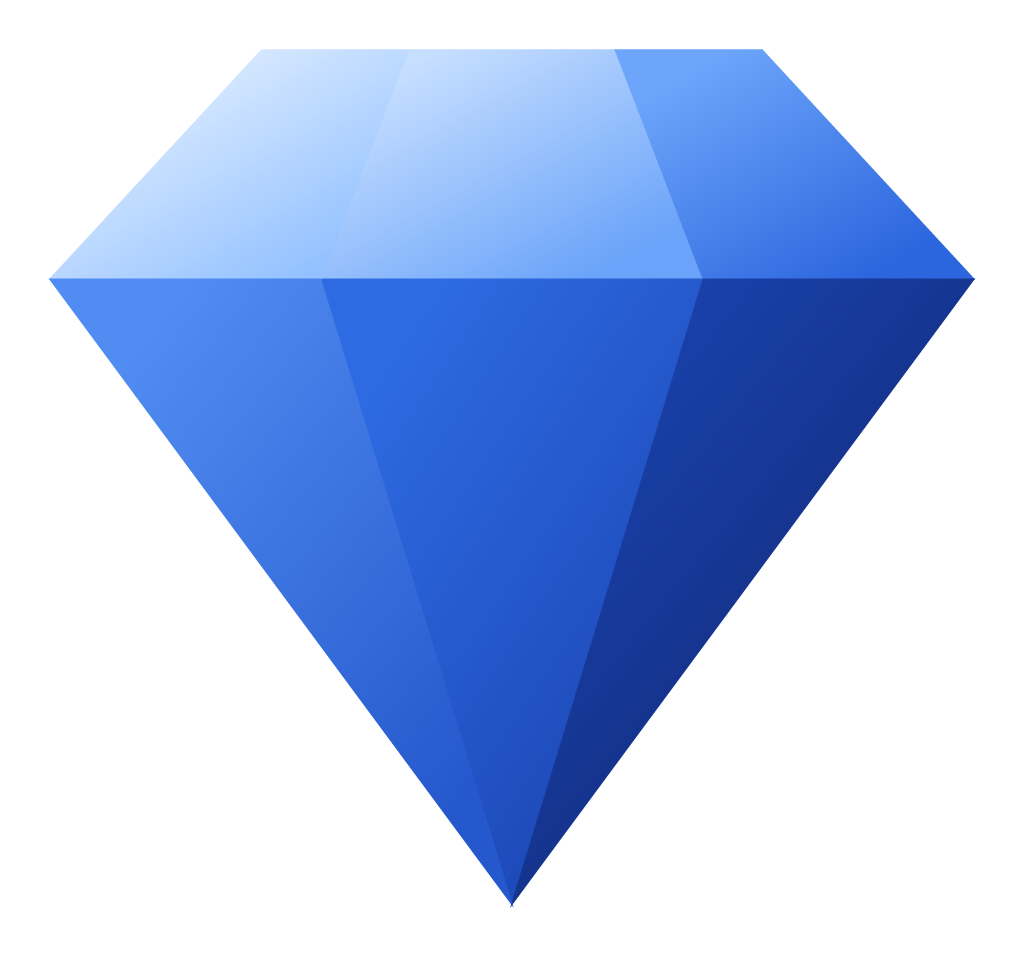
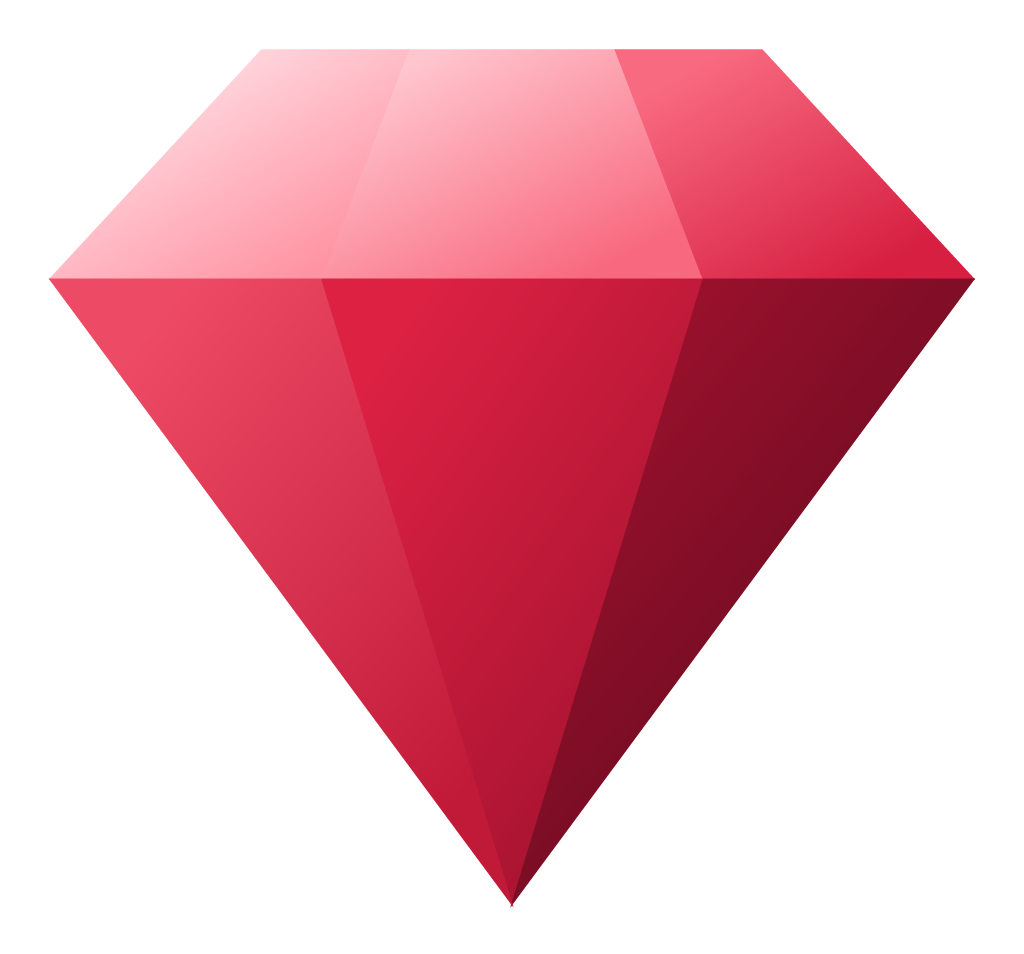
Make Ruby the default palette
Claude-Session: https://claude.ai/code/session_0146SZfCP6KJ3vtfzamx4Kz4

diff --git a/default.ts b/default.ts
@@ -7,9 +7,8 @@
 import { COLOR_PALETTES } from "./color-palettes.ts";
 import type { DiamondParams } from "./diamond.ts";
 
-const DEFAULT_PALETTE = COLOR_PALETTES.find((p) => p.name === "Sapphire");
-if (!DEFAULT_PALETTE)
-  throw new Error('default palette "Sapphire" is missing from color-palettes.ts');
+const DEFAULT_PALETTE = COLOR_PALETTES.find((p) => p.name === "Ruby");
+if (!DEFAULT_PALETTE) throw new Error('default palette "Ruby" is missing from color-palettes.ts');
 
 const padding = 40;
 
@@ -25,7 +24,7 @@ export const PADDING_PRESETS = {
 } as const;
 export type PaddingPreset = keyof typeof PADDING_PRESETS;
 
-/** Defaults: a sapphire with a soft sheen on every facet, every animation off. */
+/** Defaults: a ruby with a soft sheen on every facet, every animation off. */
 export const DEFAULTS: Required<Omit<DiamondParams, "onWarn">> = {
   size: 480,
   tableSize: 260,

diff --git a/README.md b/README.md
@@ -14,7 +14,7 @@ Playground: https://brillout.github.io/gem-skills-logo
 
 ## Color
 
-A gem is one color, so a palette is a tone ramp of that color — highlight, body, shadow — and every facet takes its tone from how it faces the light. [`color-palettes.ts`](./color-palettes.ts) has ready-made stones (Sapphire, Ruby, Emerald, Amethyst, Onyx, Gold, …); pick any of them in the playground, or pass a single color and the highlight and shadow are derived.
+A gem is one color, so a palette is a tone ramp of that color — highlight, body, shadow — and every facet takes its tone from how it faces the light. [`color-palettes.ts`](./color-palettes.ts) has ready-made stones (Ruby, Sapphire, Emerald, Amethyst, Onyx, Gold, …); pick any of them in the playground, or pass a single color and the highlight and shadow are derived.
 
 ## Animations
 
@@ -57,7 +57,7 @@ For custom size & padding, go to the [playground](https://brillout.github.io/gem
 ```bash
 pnpm install
 pnpm run node-ts cli.ts logo.svg --spin=true --sweep=true                    # any parameter as --name=value
-pnpm run node-ts cli.ts logo.svg --colors=#ffe3e8,#ff7d90,#e02244,#a4122f,#5c0a1c   # a tone ramp (this one is Ruby)
+pnpm run node-ts cli.ts logo.svg --colors=#e4f0ff,#7cb4ff,#2f6de6,#1b45b4,#0f2670   # a tone ramp (this one is Sapphire)
 pnpm run node-ts cli.ts logo.svg --colors=#16b56c                            # one color; highlight and shadow derived
 pnpm run node-ts cli.ts logo.svg --pitch=15 --yaw=22.5                       # look down onto the table, turned
 pnpm run node-ts cli.ts logo.png --pngSize=512 --padding=large
